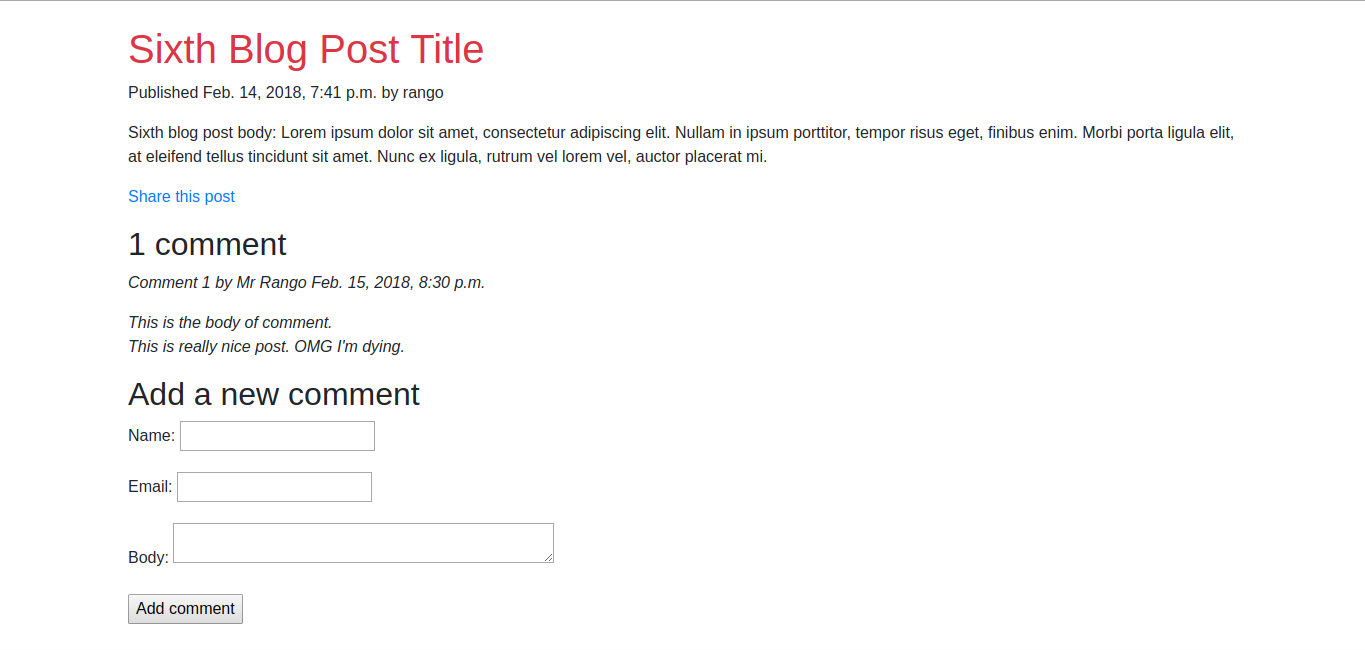
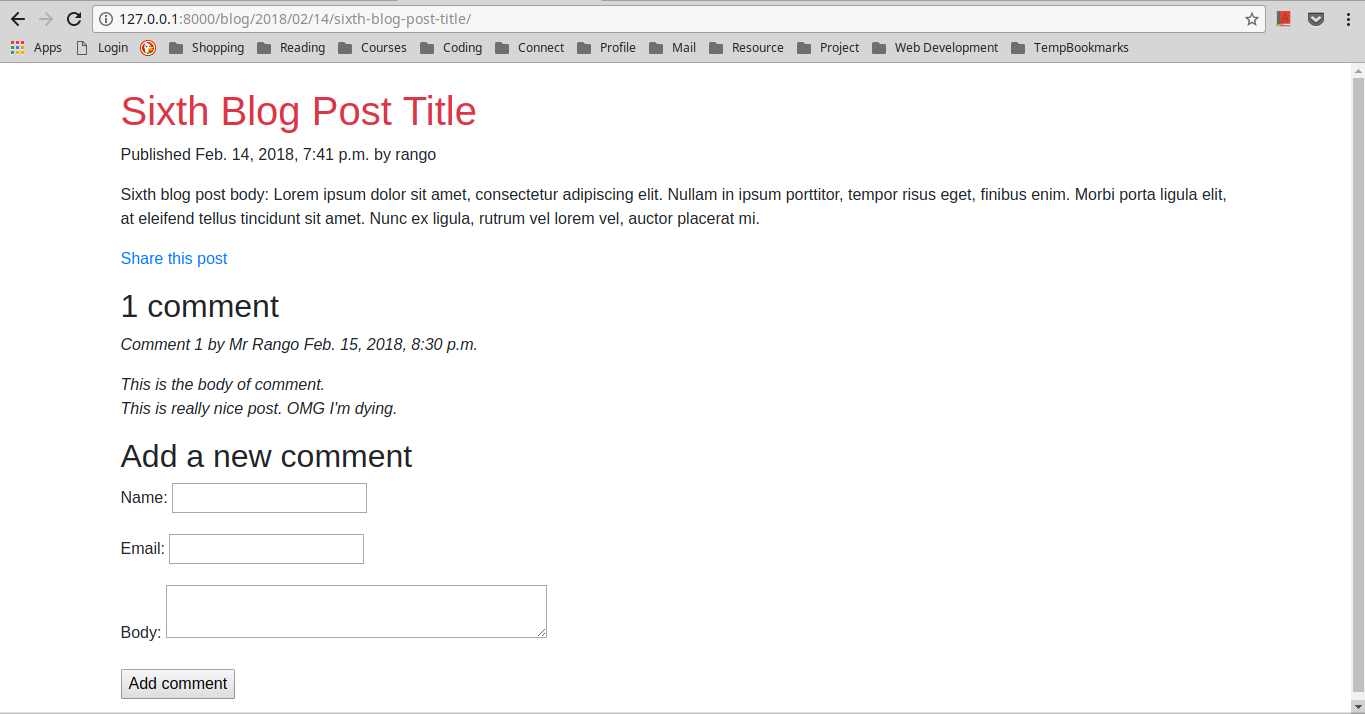
Added screenshot

diff --git a/README.md b/README.md
@@ -1,7 +1,5 @@
 # Here I'll work on few django based web projects for 100 days continuously from 14-February-2017 to 25-May-2018.
-----------
 I'll edit this README every day when I'll finish working for that day.
--------------------
 
 | Day      | Project Name |         What I learned             |   Issues and status (NF/F)   | Link        |
 |----------|--------------|------------------------------------|------------------------------|-------------|
@@ -12,4 +10,8 @@ I'll edit this README every day when I'll finish working for that day.
 ### Screenshots
 ----------
 #### 1. Blog App
+Home page:
 ![alt text](Screenshots/BlogApp/Screenshot1.png)
+Detailed view of a post:
+![alt text](Screenshots/BlogApp/Screenshot2.png)
+
